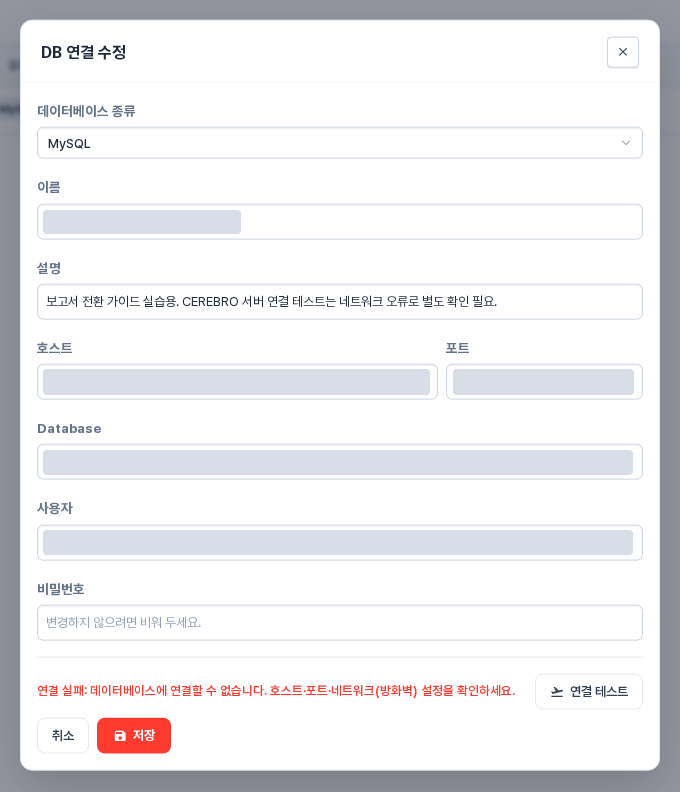
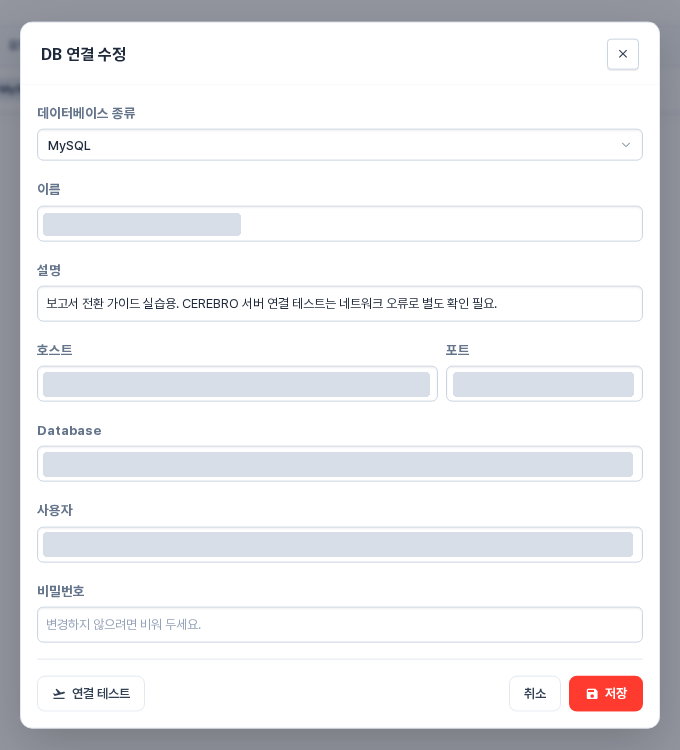
3번 수정

diff --git a/보고서_전환_가이드.md b/보고서_전환_가이드.md
@@ -18,33 +18,27 @@
 
 본 문서는 국방부 보고서를 CEREBRO AI 대시보드로 재구성하는 작업을 안내합니다. 기존 보고서에서 확인하던 수치·표·그래프를 데이터셋에 연결하고, 조회 조건을 바꾸며 통계와 근거 자료를 한눈에 확인할 수 있도록 구성합니다.
 
-실습에는 MySQL에 저장된 고객·주문·주문상세·상품·매장 데이터를 사용합니다. 아래 판매 지표는 대시보드 구성 방법을 익히기 위한 예시이며, 실제 보고서 전환 시에는 해당 보고서의 항목명과 집계 기준을 적용합니다.
+실습에는 DB에 저장된 고객·주문·주문상세·상품·매장 데이터를 사용합니다. 아래 판매 지표는 대시보드 구성 방법을 익히기 위한 예시이며, 실제 보고서 전환 시에는 해당 보고서의 항목명과 집계 기준을 적용합니다.
 
 
 ### 1.2 담당자와 그룹의 역할
 
-실습에서는 이름이 **관리자**, **사용자**인 두 그룹을 구성합니다.
+이름이 **관리자**, **사용자**인 두 그룹을 구성합니다.
 
 | 구분 | 그룹 내 역할 | 수행 업무 |
 |---|---|---|
 | 작성 담당자 | **관리자** 그룹의 그룹 관리자 | DB 연결, 데이터셋 등록·조인, 대시보드 작성·저장, 사용자 그룹에 공유 |
 | 조회 담당자 | **사용자** 그룹의 일반 멤버 | 공유 대시보드 조회, 조건 변경, 사본 저장·수정, 결과 다운로드 |
 
-그룹 이름을 **관리자**로 지정하는 것과 계정에 관리자 등급을 부여하는 것은 서로 다릅니다. 그룹 생성과 구성원 배정은 사이트 관리자 계정으로 수행하며, DB 연결과 그룹 자료의 운영 담당자는 해당 그룹의 관리자 역할로 지정합니다.
-
 ### 1.3 작업 순서와 완성 결과
 
-**그룹 구성 → DB 연결 설정 → DW 데이터셋 등록 → DM 데이터셋 구성 → 대시보드 3개 작성 → 사용자 그룹에 조회 공유 → 조회 담당자의 사본 저장·활용** 순서로 진행합니다.
+**그룹 구성 → DB 연결 설정 → DW 데이터셋 등록 → 대시보드 3개 작성 → 사용자 그룹에 조회 공유 → 조회 담당자의 사본 저장·활용** 순서로 진행합니다.
 
 | 대시보드 | 구성 방식 | 확인하려는 내용 |
 |---|---|---|
 | 종합 실적 현황 | 핵심 수치와 추이 중심의 요약형 | 전체 규모, 월별 변화, 주문 상태별 구성 |
 | 지역·매장 운영 비교 | 지역·채널 비교와 피벗 중심의 비교형 | 어느 지역·매장의 실적이 큰지, 지역별 실적이 월마다 어떻게 달라지는지 |
 | 상품·고객 수요 탐색 | 분류별 차트와 상세 표 중심의 탐색형 | 어떤 상품군을 어느 지역의 고객이 구매하는지, 그 근거 주문은 무엇인지 |
-
-> **💡 참고 : 이번 실습의 데이터 등록 경로**
->
-> 2026-11-17 확인 기준, 작업 환경에서는 원본 DB를 정상 조회했지만 CEREBRO 서버의 DB 연결 테스트는 네트워크 오류를 반환했습니다. 따라서 지정된 DW 5개 테이블에서 필요한 컬럼만 읽기 전용으로 추출한 CSV 파일을 등록하여 실습을 완료했습니다. DB 연결 설정과 연결 테스트 결과는 3장에, 정상적인 DB 추출 절차와 이번에 사용한 파일 등록 절차는 4장에 구분해 설명합니다.
 
 ## 2. 그룹 생성
 
@@ -119,14 +113,8 @@
 3. 연결에 실패하면 호스트·포트·방화벽과 **CEREBRO 서버에서 DB까지의 접근 경로**를 확인합니다.
 
 <p align="center">
-  <img src="./Source/보고서_전환_가이드/06_DB연결테스트.png" alt="이번 실습에서 반환된 DB 연결 네트워크 오류" width="700">
+  <img src="./Source/보고서_전환_가이드/06_DB연결테스트.png" alt="연결 테스트를 실행하기 전 DB 연결 설정 화면" width="700">
 </p>
-
-이번 실습에서는 연결 정보를 저장했으나 연결 테스트는 성공하지 못했습니다. 아래 데이터셋은 DB 자동 수집 결과가 아니라, 별도로 추출한 DW 테이블의 파일을 등록한 결과입니다. 네트워크 연결이 확보된 후에는 4.2의 DB 추출 경로로 같은 컬럼을 등록할 수 있습니다.
-
-### 3.3 조회 담당자와 DB 연결 권한 구분
-
-DB 연결의 등록·수정·재추출은 관리자 그룹에서 담당합니다. 사용자 그룹에는 대시보드와 최종 DM 데이터셋의 조회 권한을 부여합니다. 조회 담당자에게 원본 DB 접속 정보나 연결 관리 권한을 부여할 필요는 없습니다.
 
 ## 4. 새 데이터셋 등록하기
 
